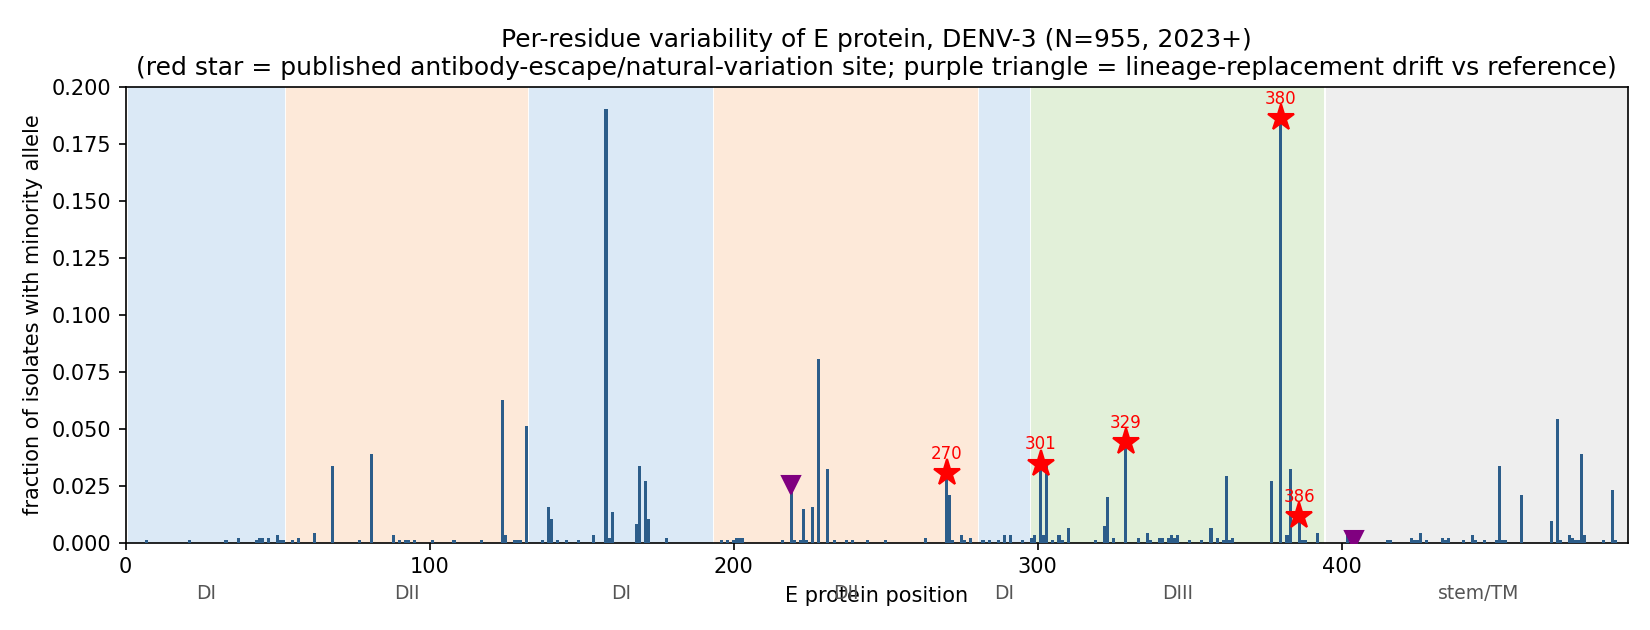
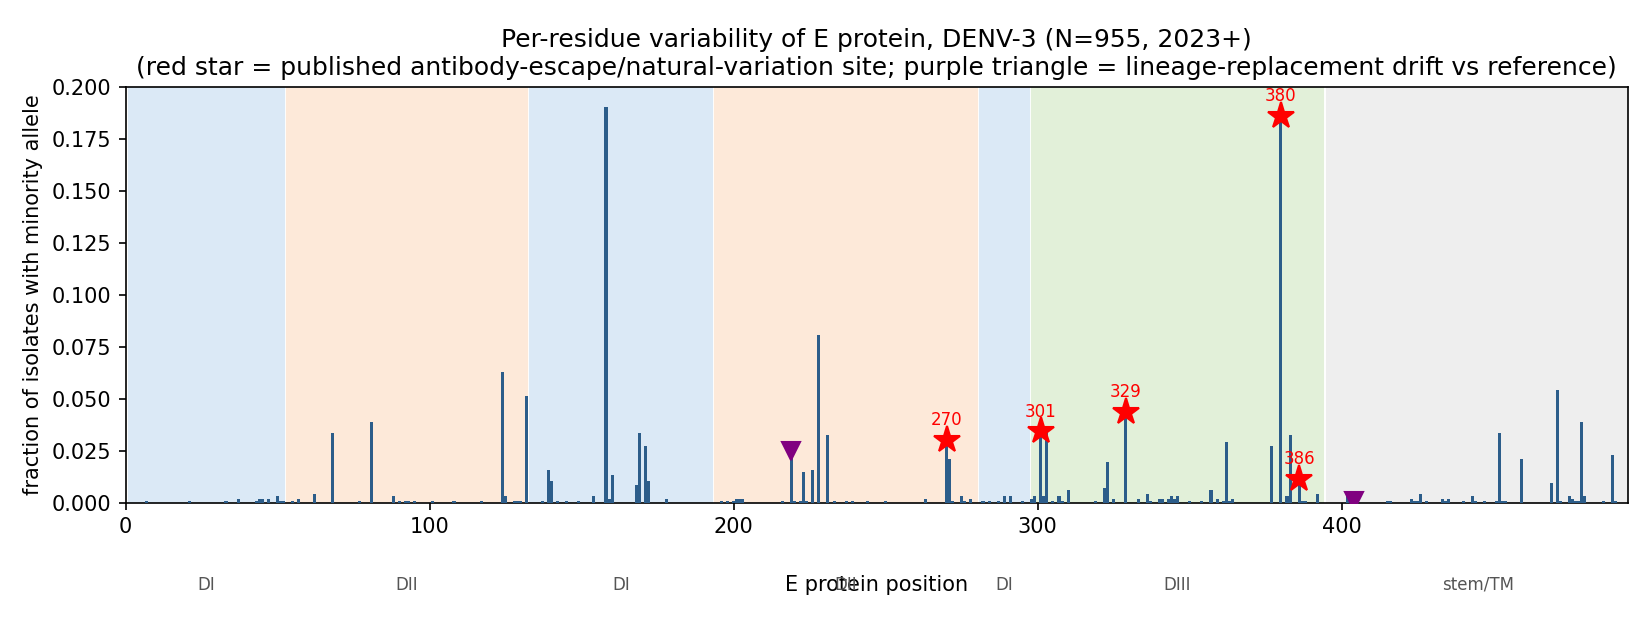
denv3-4: statistical tests (DIII enrichment MWU p=0.003 DENV-3; epitope-site recovery Fisher OR=41/69; cross-serotype profile uncorrelated) + regenerated figures

diff --git a/denv3-4/code/stats_tests.py b/denv3-4/code/stats_tests.py
@@ -1,0 +1,36 @@
+#!/usr/bin/env python3
+import json, csv
+from scipy.stats import mannwhitneyu, fisher_exact, spearmanr
+WORK="/home/sandbox/work/denv3-4/results"
+def load(s):
+    rows=list(csv.DictReader(open(f"{WORK}/atlas_{s}_v2.csv")))
+    return [{**r,"pos":int(r["pos"]),"freq":float(r["freq"]),"epitopes":int(r["epitopes"])} for r in rows]
+out={}
+prof={}
+for s in ("denv3","denv4"):
+    t=load(s)
+    diii=[r["freq"] for r in t if r["domain"]=="DIII"]
+    rest=[r["freq"] for r in t if r["domain"]!="DIII"]
+    u,p=mannwhitneyu(diii,rest,alternative="greater")
+    # enrichment of ground-truth recovery among epitope-annotated vs not
+    gt=json.load(open(f"{WORK}/epitopes.json"))[s]
+    gtp={pp for k,v in gt.items() if v["role"]=="ground_truth" for pp in v["residues"]}
+    variable={r["pos"] for r in t if r["freq"]>0.005}
+    a=len(gtp & variable); b=len(gtp - variable)
+    epipos={pp for k,v in gt.items() if v["role"]=="feature" for pp in v["residues"]}
+    c=len((epipos-gtp) & variable); d=len((epipos-gtp) - variable)
+    odds,pf=fisher_exact([[a,b],[c,d]])
+    out[s]={"DIII_vs_rest_MannWhitney_p":p,"DIII_mean":sum(diii)/len(diii),"rest_mean":sum(rest)/len(rest),
+            "GT_in_variable":a,"GT_total":a+b,"epitope_recovery_fisher_p":pf,"epitope_recovery_odds":odds if odds!=float('inf') else "inf"}
+    prof[s]={r["pos"]:r["freq"] for r in t}
+# cross-serotype profile correlation on mapped shared positions
+maps=json.load(open("/tmp/e_posmaps.json"))
+xs=[]; ys=[]
+inv3={v:int(k) for k,v in maps["denv3"].items()}; inv4={v:int(k) for k,v in maps["denv4"].items()}
+shared=set(inv3)&set(inv4)
+for p in shared:
+    xs.append(prof["denv3"].get(p,0)); ys.append(prof["denv4"].get(p,0))
+rho,pr=spearmanr(xs,ys)
+out["cross_serotype_profile_spearman"]={"rho":rho,"p":pr,"n":len(xs)}
+json.dump(out, open(f"{WORK}/stats.json","w"), indent=1)
+print(json.dumps(out,indent=1))
